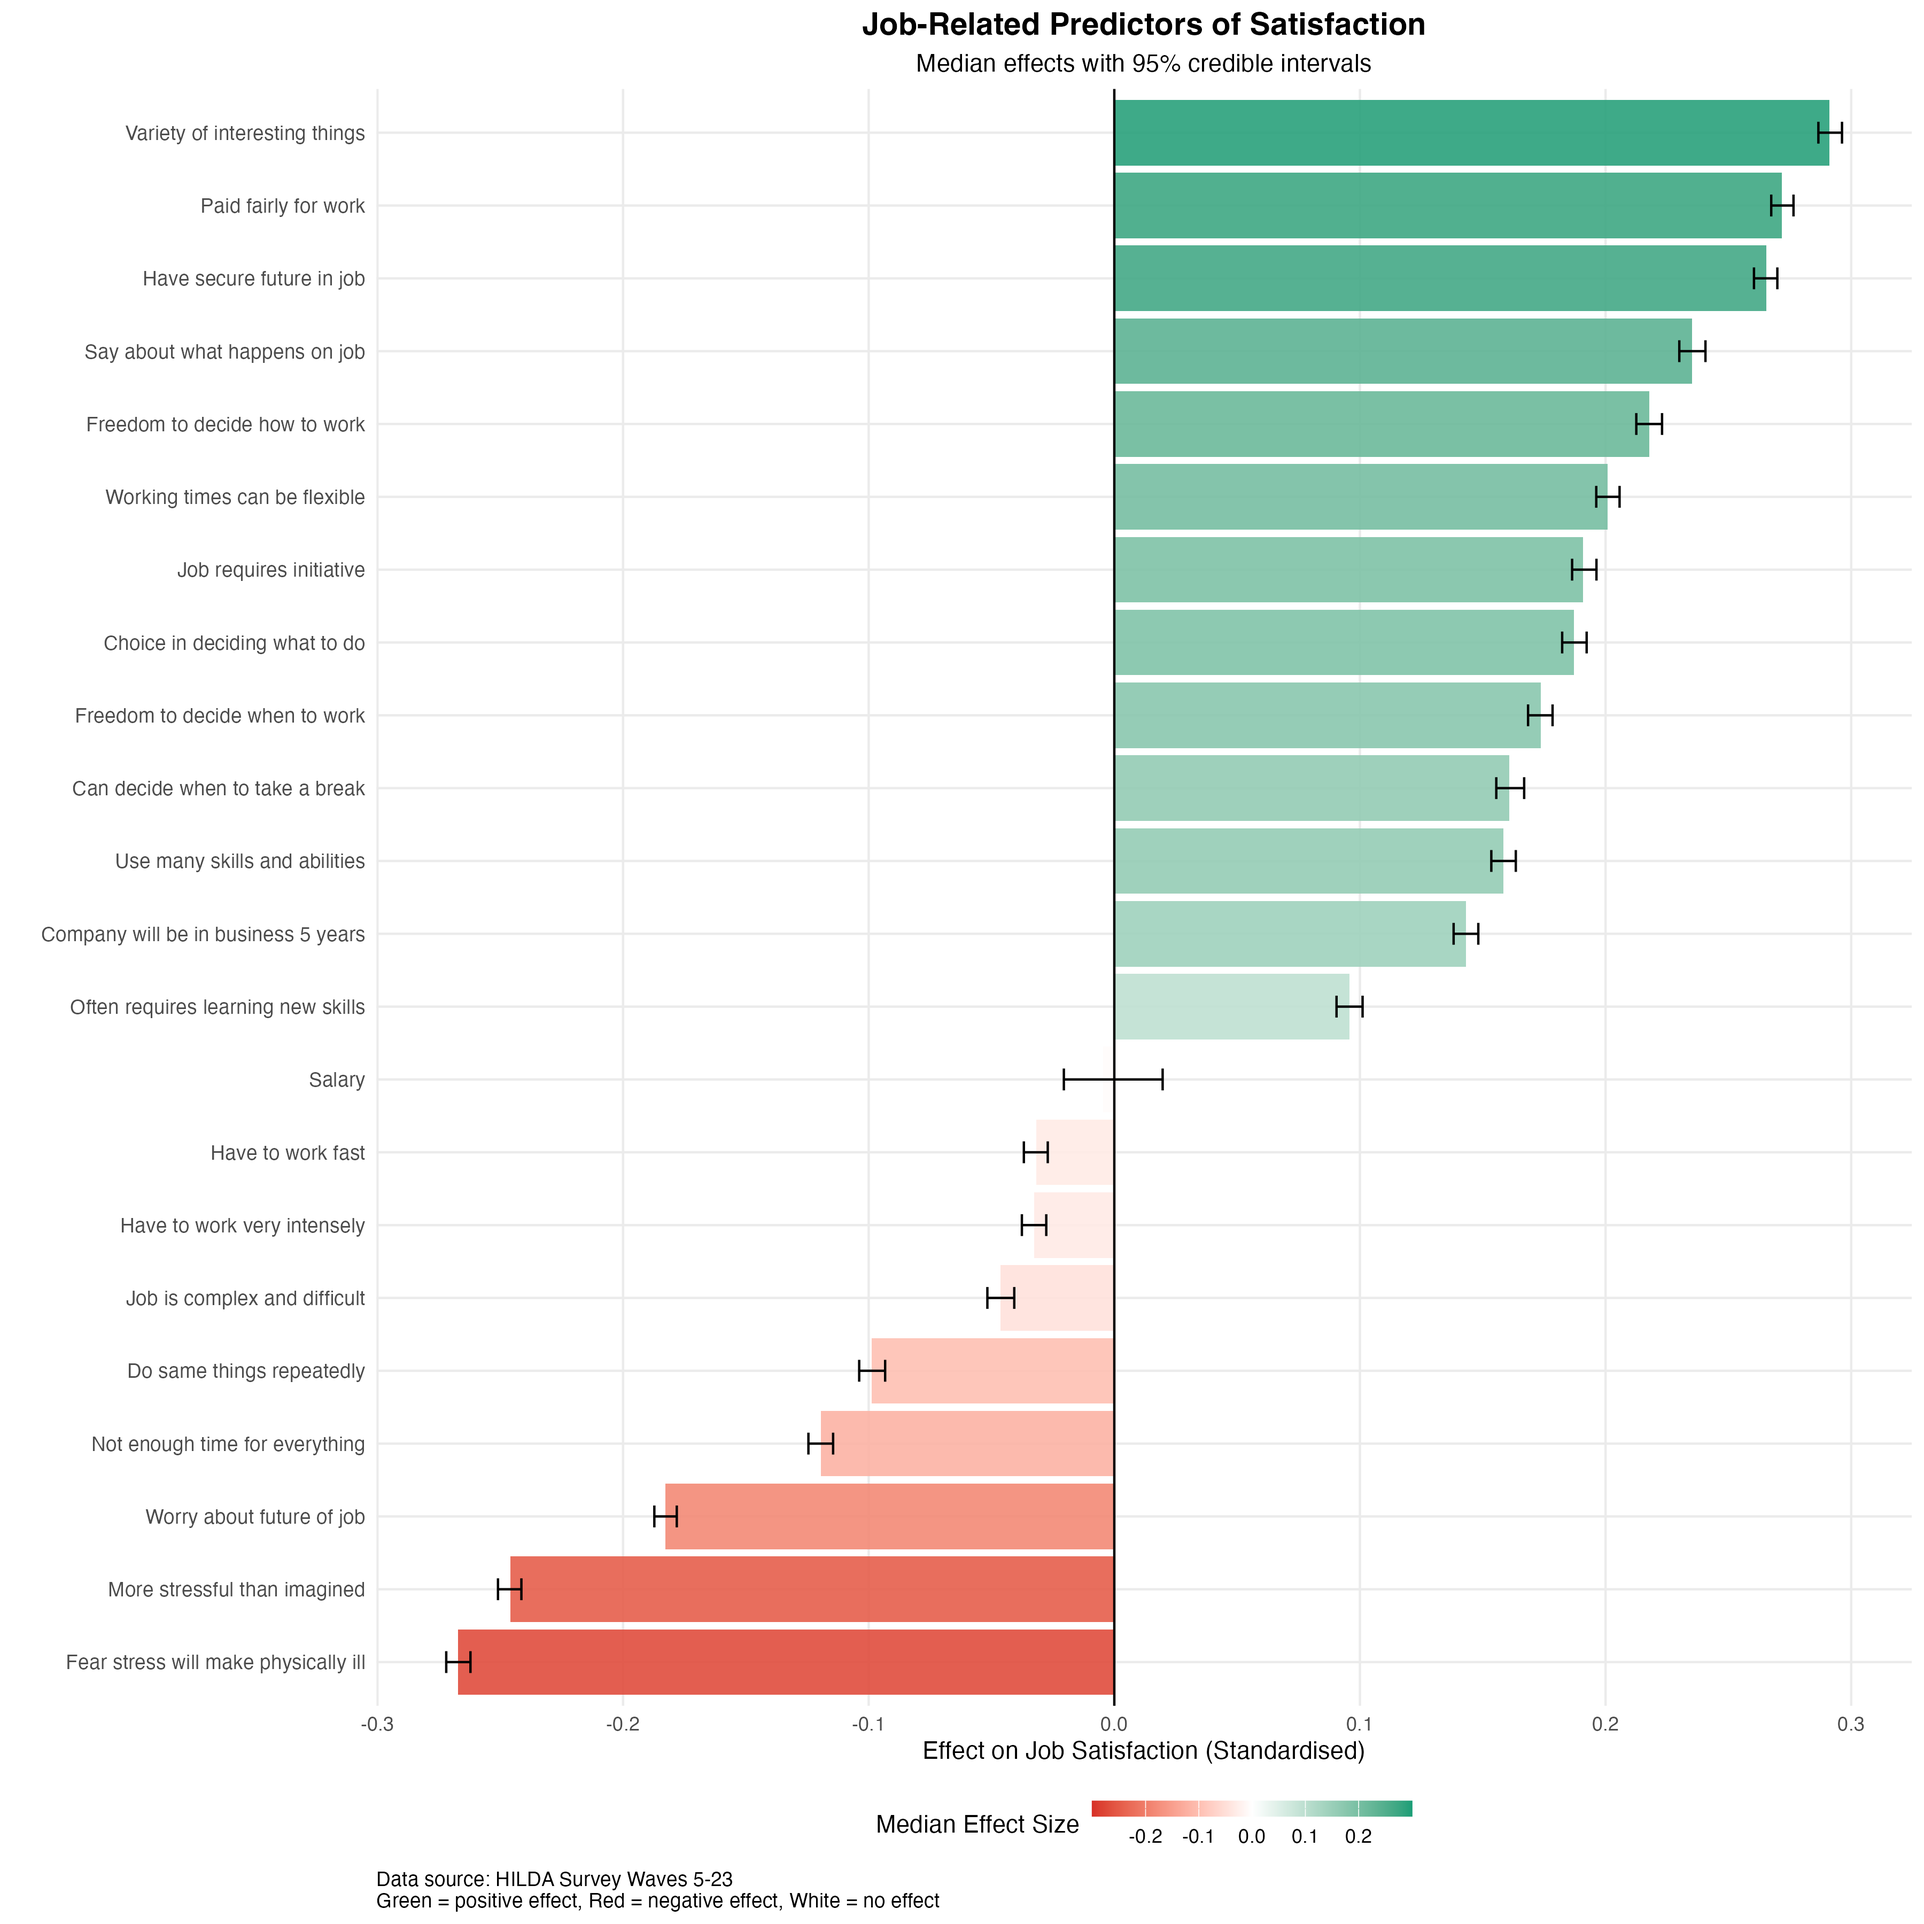
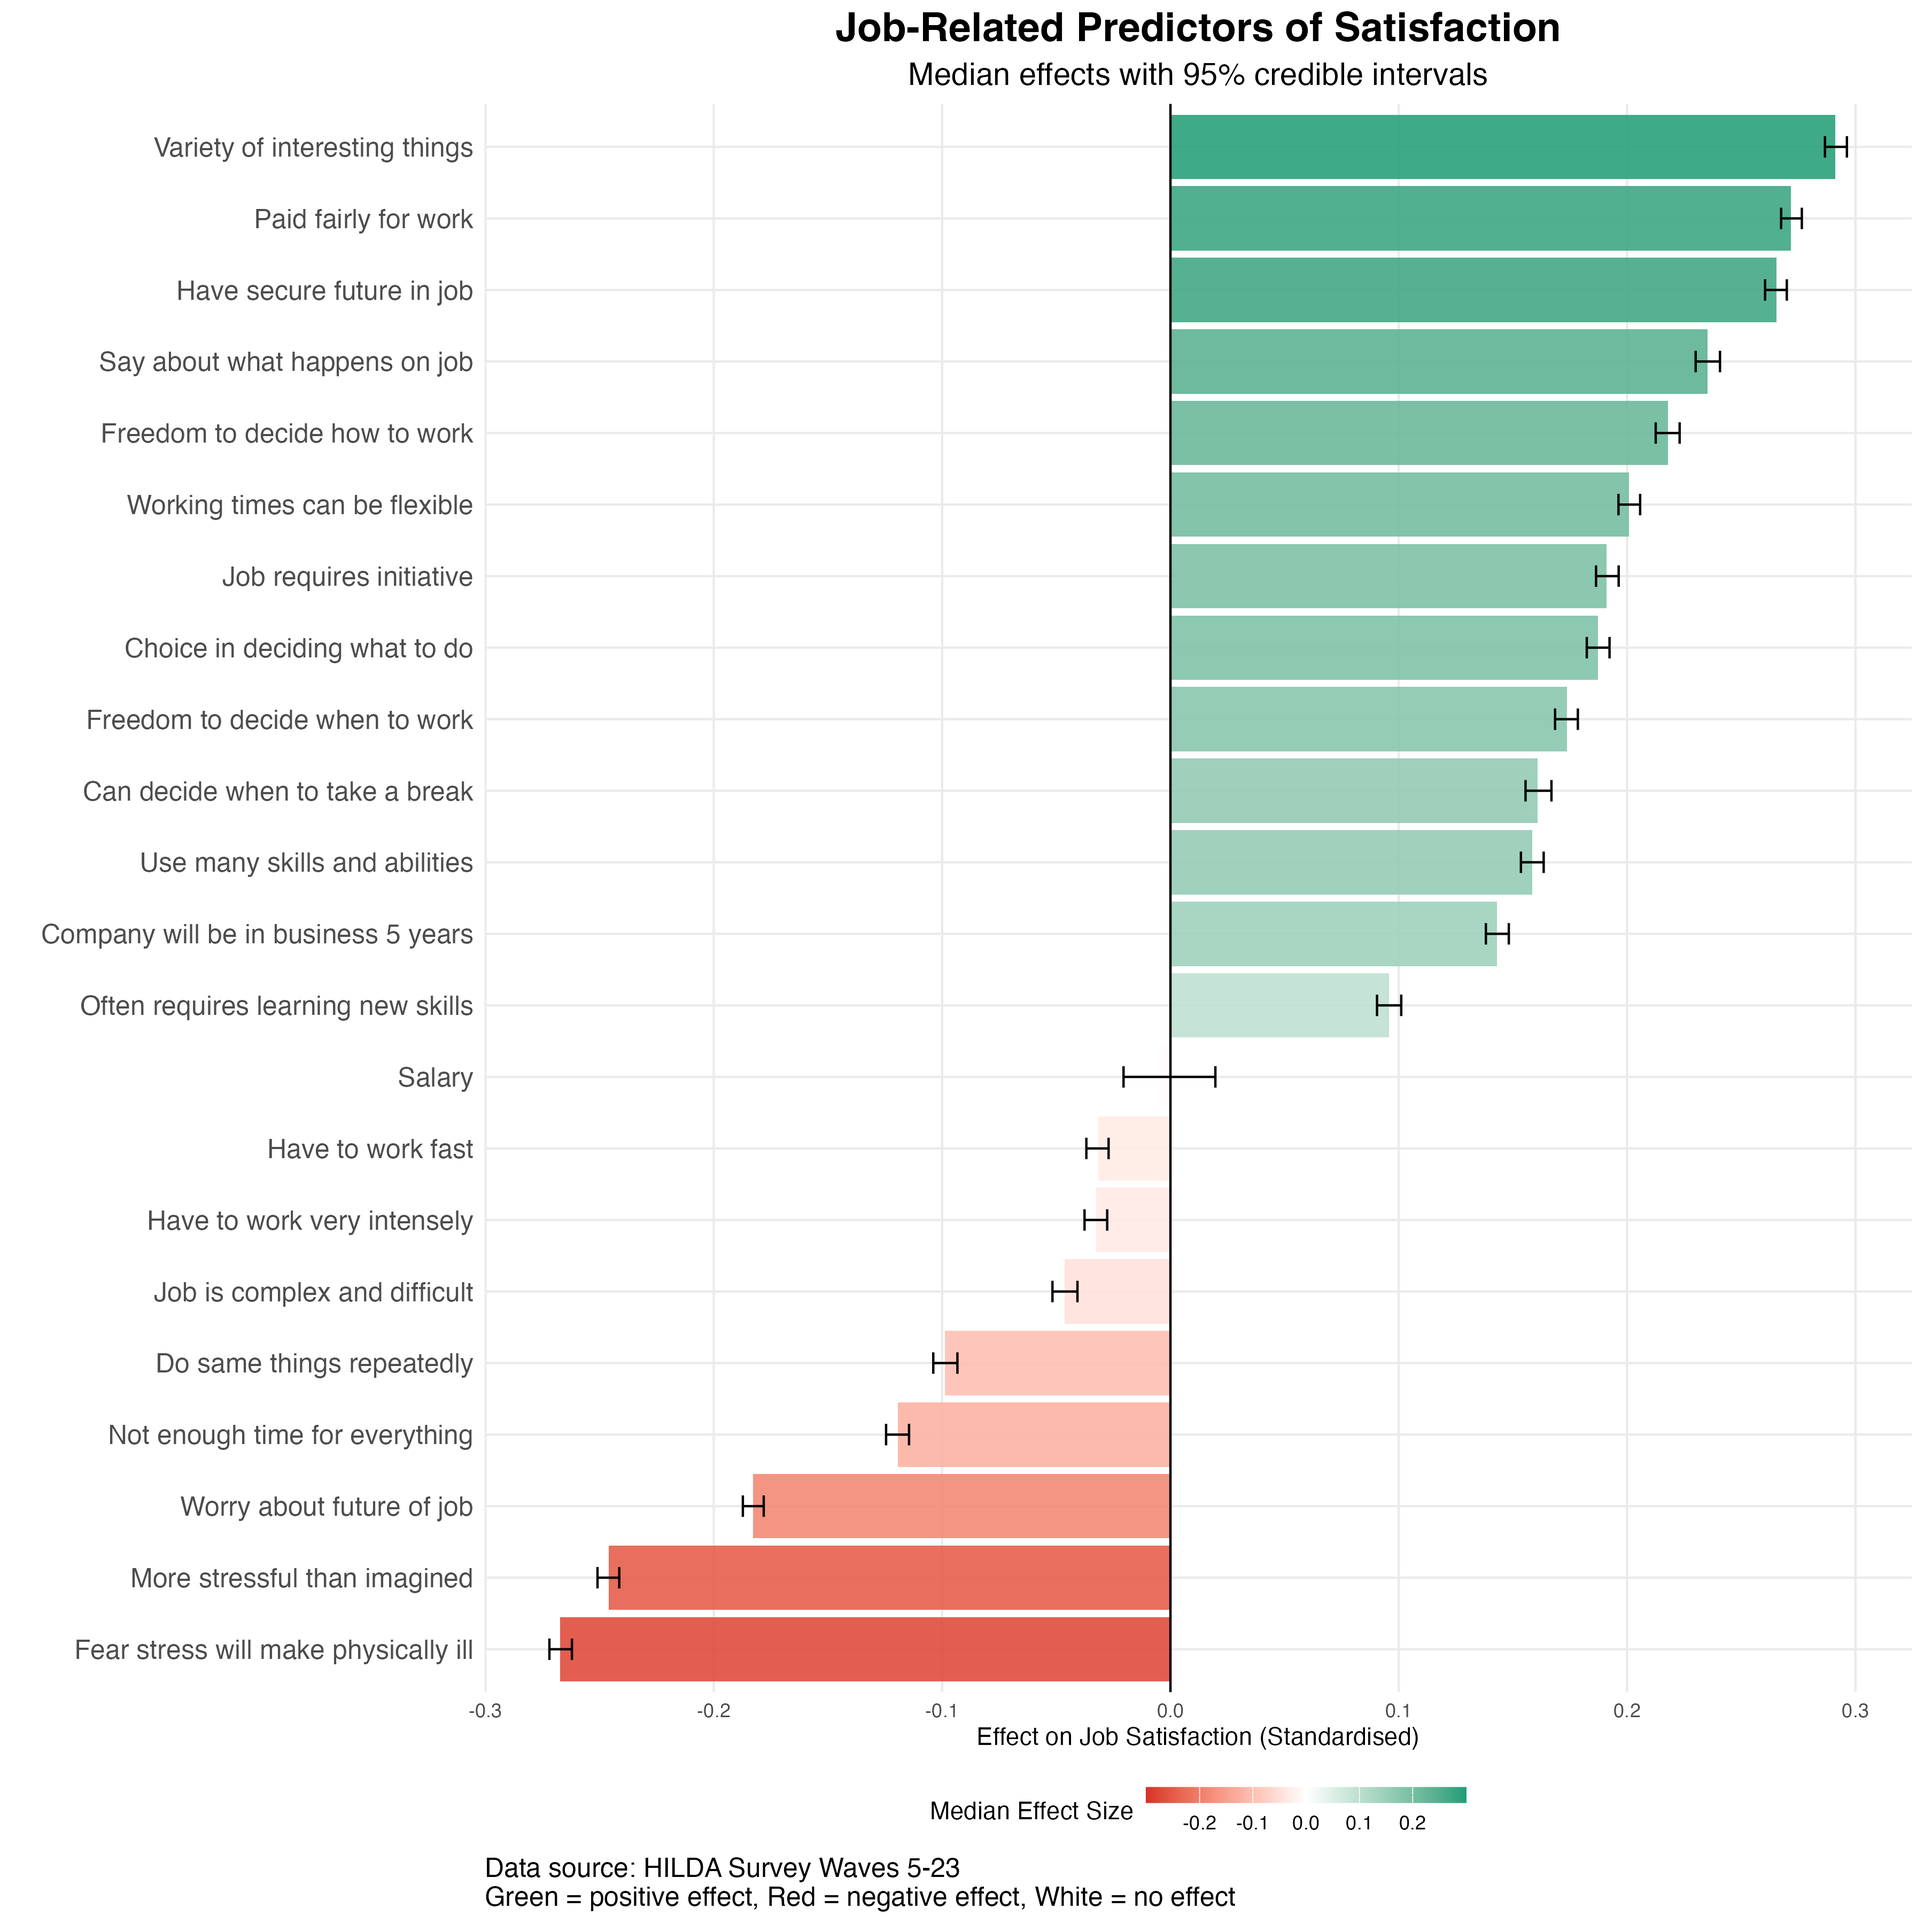
increase size of font in figure, fix typos

diff --git a/_posts/2025-08-18-predictors-of-job-satisfaction.md b/_posts/2025-08-18-predictors-of-job-satisfaction.md
@@ -42,14 +42,13 @@ The figure below shows the results of our analysis. The bars display the best es
 
 Our analysis revealed interesting patterns in what drives workplace satisfaction. The strongest positive predictor was having *variety in one's work*, followed closely by being *paid fairly* and having a *secure future* in the job. The different measures of *autonomy* also had a substantial positive impact, including having a say in what happens on the job, and freedom over how, when, and where to work. When employees reported more variety, fairness, security, and control, their satisfaction was notably higher.
 
-By contrast, *stress-related factors* were the biggest drain on satisfaction. The strongest negative association came from the fear that work stress would cause physical illness. This was closely followed by feeling that the job was more stressful than expected and worrying about the future of one's job. *Time pressure* also consistently lowered satisfaction, whether from not having enough time, working fast, or needing to work intensively. The data showed that *repetitive work* was also linked to lower satisfaction, reinforcing our finding that variety is crucial. When workers faced high stress, job insecurity, time pressure, or monotonous tasks, their satisfaction dropped significantly.
+By contrast, *stress-related factors* were the biggest drain on satisfaction. The strongest negative association came from the fear that work stress would cause physical illness. This was closely followed by feeling that the job was more stressful than expected and worrying about the future of one's job. *Time pressure* also consistently lowered satisfaction, whether from not having enough time, working fast, or needing to work intensively. The data showed that *repetitive work* was also linked to lower satisfaction, reinforcing our finding that variety is important. When workers faced high stress, job insecurity, time pressure, or monotonous tasks, their satisfaction dropped.
 
 Perhaps the most surprising finding was that *salary had no credible effect on job satisfaction*. Once we accounted for other factors like occupation and industry, people earning different salaries reported similar levels of satisfaction. This suggests that the _perception_ of being paid fairly matters far more than the actual dollar amount itself.
 
 ## Building Satisfying Workplaces
 
-Given these findings, organisations might benefit from redirecting some focus from salary benchmarking toward improving job design and workplace culture. Since task variety emerged as the strongest satisfaction predictor, managers may want to consider job rotation programs or project-based work that exposes employees to different challenges. [Meta-analytic findings indicate that job rotation is significantly associated with higher job satisfaction and greater organisational commitment](https://doi.org/10.3389/fpsyg.2021.633530)  
-. This could involve quarterly role exchanges within teams, cross-functional projects, or allowing employees to dedicate some of their time to initiatives outside their core responsibilities.
+Given these findings, organisations might benefit from redirecting some focus from salary benchmarking toward improving job design and workplace culture. Since task variety emerged as the strongest satisfaction predictor, managers may want to consider job rotation programs or project-based work that exposes employees to different challenges. [Meta-analytic findings indicate that job rotation is significantly associated with higher job satisfaction and greater organisational commitment](https://doi.org/10.3389/fpsyg.2021.633530). This could involve quarterly role exchanges within teams, cross-functional projects, or allowing employees to dedicate some of their time to initiatives outside their core responsibilities.
 
 The strong negative impact of workplace stress suggests organisations could see meaningful returns from stress reduction initiatives. Rather than treating stress as inevitable, companies might implement workload monitoring systems and establish clear boundaries around work intensity. [Meta-analytic evidence shows that organisational interventions focused on workload can reduce levels of exhaustion among employees](https://doi.org/10.1007/s00420-023-02009-z). Practical steps could include mandatory meeting-free periods, realistic deadline setting, and regular workload reviews between managers and team members.
 
